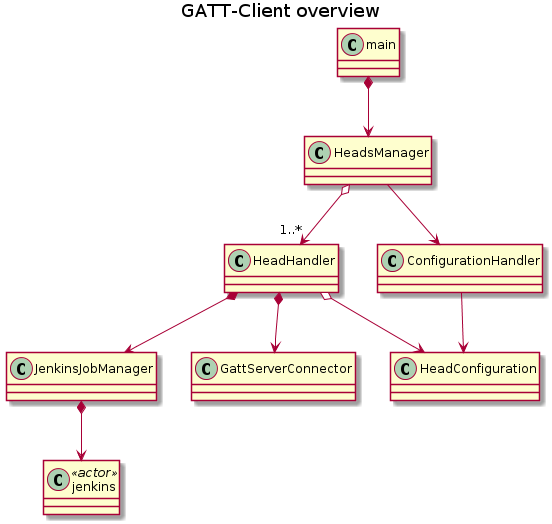
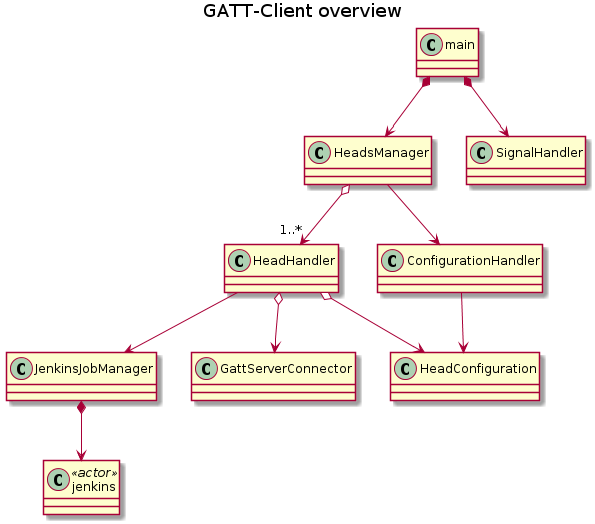
added SignalHandler to catch SIGTERM

diff --git a/src/SignalHandler.py b/src/SignalHandler.py
@@ -1,0 +1,16 @@
+import signal
+
+
+class SignalHandler:
+
+    def __init__(self):
+        self.__terminationRequested = False
+
+        signal.signal(signal.SIGINT, self.__handleSignal)
+        signal.signal(signal.SIGTERM, self.__handleSignal)
+
+    def __handleSignal(self, signum, frame):
+        self.__terminationRequested = True
+
+    def isTerminationRequested(self):
+        return self.__terminationRequested
